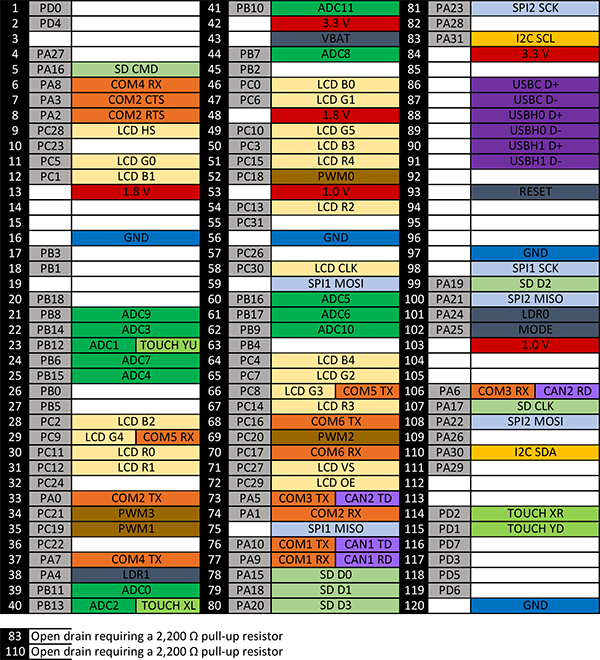
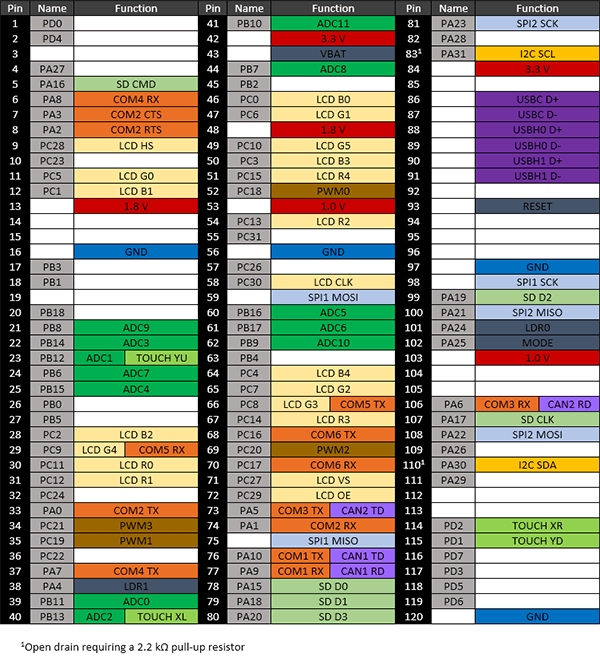
Added new g400S pinout image

diff --git a/hardware/scm/g400s.md b/hardware/scm/g400s.md
@@ -54,9 +54,9 @@ TinyCLR cannot relocate native code, so you will have specify its location in th
 
 ## G400S Pinout
 
-[![G400S Pinout](images/g400S-pinout.png)](/Documents/Pinouts/g400S.pdf)
+Many signals on the G400 are multiplexed to offer multiple functions on a single pin. Developers can decide on the pin functionality to be used through the provided libraries. Any pin with no name, function, or note must be left unconnected.
 
-
+[![G400S Pinout](images/g400S-pinout.png)](/Documents/Pinouts/G400S%20Pinout.docx)
 
 ## Peripherals
 
